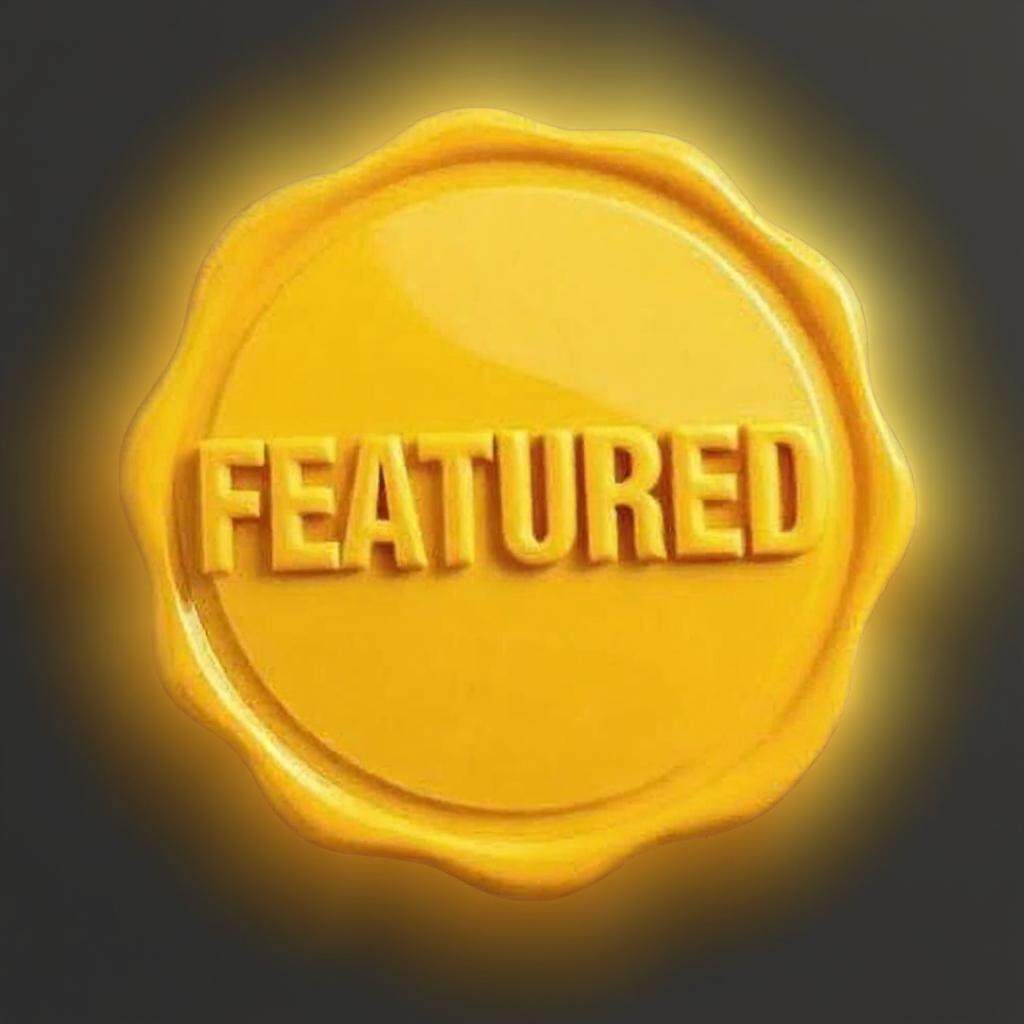
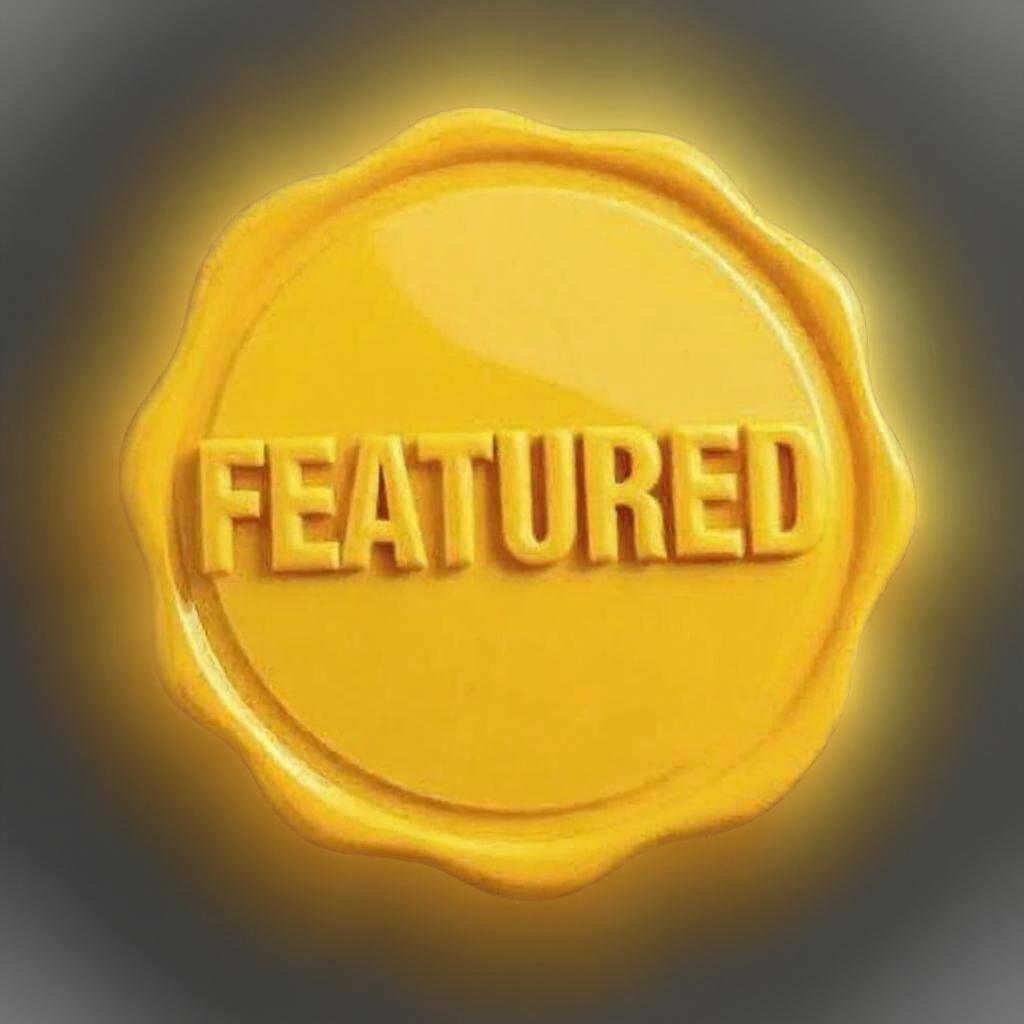
Fix stamp background color
Remove the background color from the stamp.

diff --git a/src/pages/Index.tsx b/src/pages/Index.tsx
@@ -1,6 +1,6 @@
 import { Button } from "@/components/ui/button";
 import { Link } from "react-router-dom";
-import featuredStamp from "@/assets/featured-stamp.png";
+import featuredStamp from "@/assets/featured-stamp-transparent.png";
 import { MessageSquare, Users, Sparkles } from "lucide-react";
 
 const Index = () => {
